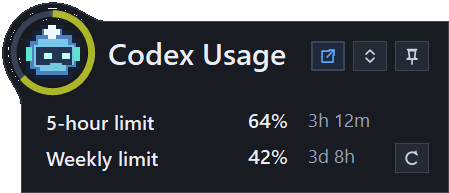
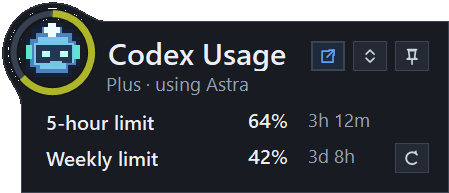
Show account status in compact view (#65)

Changed region(s): [[0.0624, 0.0933, 0.1871, 0.4352], [0.2183, 0.4041, 0.5612, 0.4974], [0.5612, 0.342, 0.5924, 0.3731]]

diff --git a/tests/CodexUsageTray.Tests/UsagePopupFormTests.cs b/tests/CodexUsageTray.Tests/UsagePopupFormTests.cs
@@ -45,8 +45,10 @@ public sealed class UsagePopupFormTests
         });
     }
 
-    [Fact]
-    public Task AccountStatusShowsTheActiveModelOrIdleState()
+    [Theory]
+    [InlineData(false)]
+    [InlineData(true)]
+    public Task AccountStatusShowsTheActiveModelOrIdleState(bool compact)
     {
         return StaTest.RunAsync(() =>
         {
@@ -63,11 +65,18 @@ public sealed class UsagePopupFormTests
                     limitName: "Codex"),
                 now,
                 CultureInfo.InvariantCulture);
-            using var popup = new UsagePopupForm(initialCompactView: false);
+            using var popup = new UsagePopupForm(initialCompactView: compact)
+            {
+                Location = new Point(-10_000, -10_000),
+                Opacity = 0
+            };
             popup.ShowPresentation(presentation);
+            popup.Show();
+            Application.DoEvents();
 
             popup.SetActivityForScreenshot(new CodexSessionActivity(now, CodexModel.Sol));
             var activeStatus = ControlWithText<Label>(popup, "Plus · using Sol");
+            Assert.True(activeStatus.Visible);
             Assert.True(activeStatus.PreferredWidth <= activeStatus.Width);
 
             popup.SetActivityForScreenshot(new CodexSessionActivity(now, CodexModel.Unknown));

diff --git a/src/CodexUsageTray/UI/UsagePopupForm.cs b/src/CodexUsageTray/UI/UsagePopupForm.cs
@@ -277,7 +277,11 @@ internal sealed class UsagePopupForm : Form
         var visibleAllowanceCount = (fiveHourVisible ? 1 : 0) + (weeklyVisible ? 1 : 0);
         compactView = compact;
 
-        statusLabel.Visible = !compact;
+        statusLabel.Visible = true;
+        statusLabel.Location = new Point(80, 50);
+        statusLabel.Size = new Size(
+            PopupWidth - ContentInset - statusLabel.Left,
+            LabelHeight(statusLabel, 28));
         fiveHourAllowance.SetVisibility(fiveHourVisible, compact);
         weeklyAllowance.SetVisibility(weeklyVisible, compact);
         limitsDivider.Visible = !compact && visibleAllowanceCount > 0;
@@ -317,11 +321,6 @@ internal sealed class UsagePopupForm : Form
         }
         else
         {
-            statusLabel.Location = new Point(80, 50);
-            statusLabel.Size = new Size(
-                PopupWidth - ContentInset - statusLabel.Left,
-                LabelHeight(statusLabel, 28));
-
             var section = 0;
             if (fiveHourVisible)
             {
